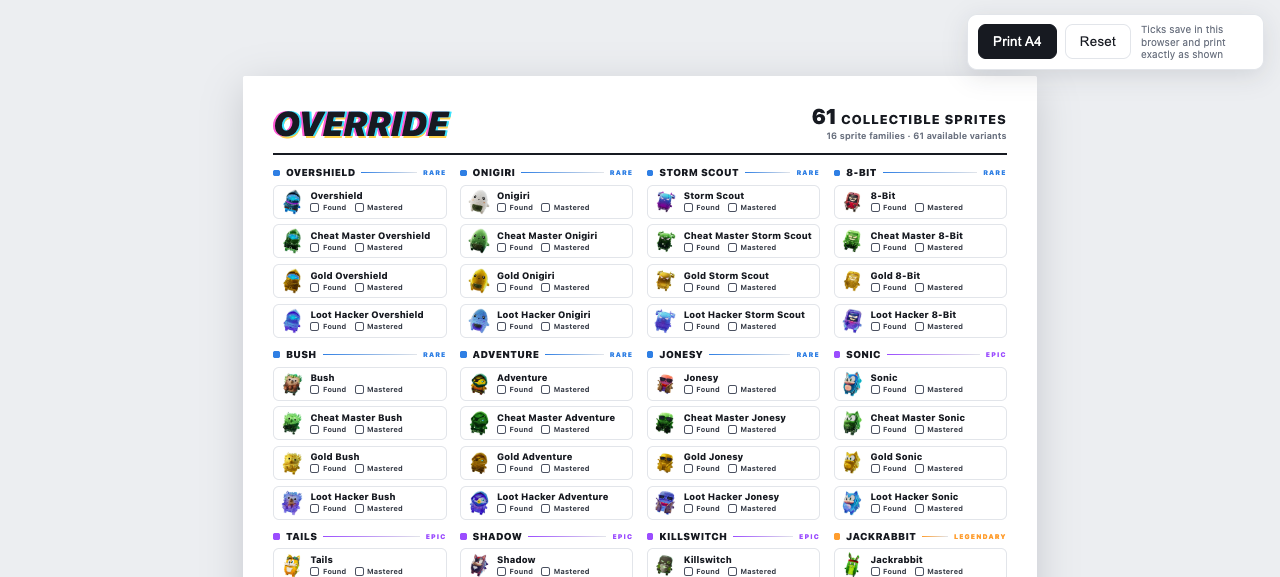
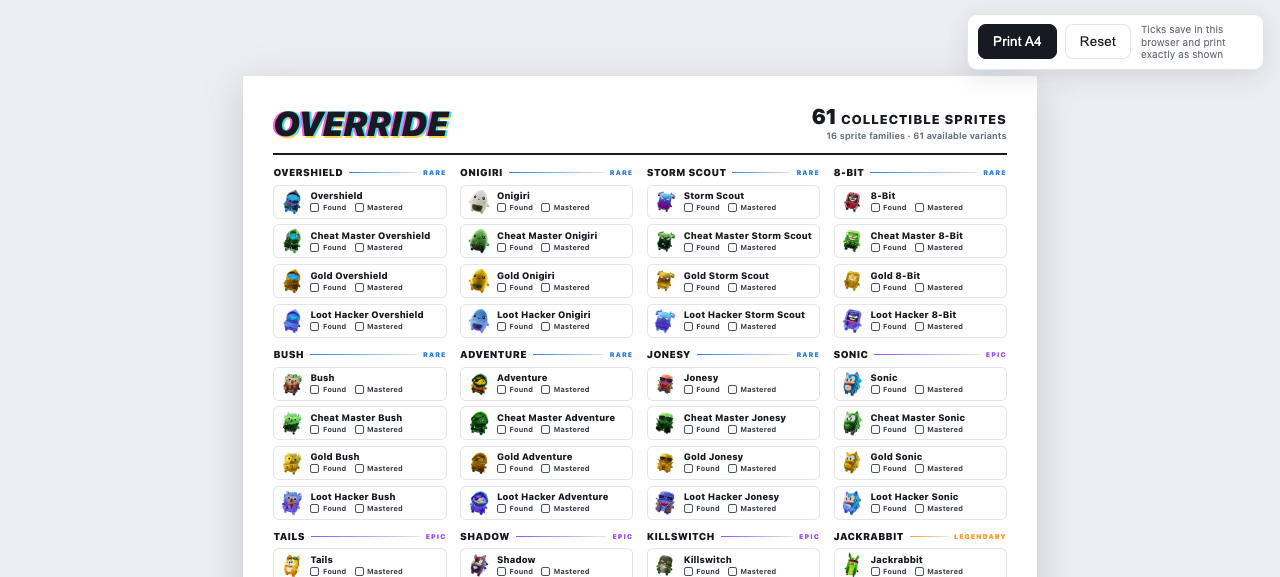
Tighten the sheet: badges under names, no pips, unreleased pinned to the page bottom
Unreleased badges now sit directly under the sprite name and print as
hairline outlined chips (white fill, coloured outline and text) instead of
solid blocks, so they cost almost no ink. The family header pip is gone,
leaving the name, the fading rule and the rarity label. The 'Not yet
obtainable' legend is removed.

Print keeps a full page height (296mm) so the grid stretches and the
Unreleased section lands at the bottom of the page exactly as previewed,
with the footer flush to the content edge. Verified as a single page via
printToPDF.

diff --git a/src/styles.css b/src/styles.css
@@ -33,7 +33,6 @@
         align-content:start; align-items:start}
   .fam{break-inside:avoid}
   .famhead{display:flex; align-items:center; gap:6px; margin-bottom:1.7mm}
-  .famhead .pip{width:6.5px; height:6.5px; flex:0 0 6.5px; border-radius:2px; background:var(--rar)}
   .famhead h2{font-size:9.8px; font-weight:900; text-transform:uppercase; letter-spacing:.02em;
               white-space:nowrap; overflow:hidden; text-overflow:ellipsis}
   .famhead .rule{flex:1; height:1px; min-width:8px; border-radius:1px; background:var(--line);
@@ -70,17 +69,17 @@
         align-items:center; background:#fafbfc; min-width:0}
   .ucard img{width:22px; height:22px; object-fit:contain; flex:0 0 22px}
   .badge{display:inline-block; font-size:5.9px; font-weight:900; letter-spacing:.11em; text-transform:uppercase;
-         color:#fff; border-radius:3px; padding:1.4px 4.5px 1px; white-space:nowrap; flex:0 0 auto}
-  .badge.new{background:#7c3aed}
-  .badge.das{background:#0f9d58}
+         background:#fff; border:1px solid currentColor; border-radius:3px; padding:1.2px 4.5px 1px;
+         white-space:nowrap; flex:0 0 auto}
+  .badge.new{color:#6d28d9}
+  .badge.das{color:#0f7a44}
   .ucardtxt{flex:1; min-width:0}
-  .ubadge{display:flex; justify-content:flex-end; margin-top:1.8px}
+  .ubadge{display:flex; justify-content:flex-start; margin-top:1.8px}
   .ucard .q{width:22px; height:22px; flex:0 0 22px; border-radius:5px; background:#eef1f5; color:#8a93a1;
               display:grid; place-items:center; font-weight:900; font-size:12px}
   .ucard .n{font-size:8.8px; font-weight:800; line-height:1.2}
   .ucard .by{font-size:6.9px; color:var(--muted); font-weight:600; line-height:1.2;
              white-space:nowrap; overflow:hidden; text-overflow:ellipsis}
-  .unfoot{font-size:6.8px; color:var(--muted); font-weight:600; margin-top:1.6mm}
 
   /* footer */
   .foot{margin-top:3mm; border-top:1px solid var(--line); padding-top:1.8mm; display:flex;
@@ -90,10 +89,12 @@
   @page{size:A4 portrait; margin:0}
   @media print{
     html,body{background:#fff; margin:0; padding:0}
-    /* print the previewed sheet container only, at true A4 geometry */
     body > #root > :not(.sheet){display:none !important}
     .toolbar{display:none !important}
-    .sheet{width:210mm; min-height:0; margin:0; padding:8mm; box-shadow:none;
+    /* print the previewed sheet container only, at true A4 geometry.
+       the sheet keeps a full page height so the grid stretches and the
+       unreleased section sits at the bottom of the page, exactly as previewed */
+    .sheet{width:210mm; min-height:296mm; margin:0; padding:8mm; box-shadow:none;
            border-radius:0; zoom:1 !important}
     *{-webkit-print-color-adjust:exact; print-color-adjust:exact}
   }

diff --git a/src/App.tsx b/src/App.tsx
@@ -108,7 +108,6 @@ function Family({ family, ticks, onToggle }: FamilyProps): ReactNode {
   return (
     <div className="fam" style={{ '--rar': RARITY_COLOURS[family.rarity] } as CSSProperties}>
       <div className="famhead">
-        <i className="pip" />
         <h2>{family.name}</h2>
         <i className="rule" />
         <span className="rar">{family.rarity.toUpperCase()}</span>
@@ -240,9 +239,6 @@ export default function App(): ReactNode {
             {UNRELEASED.map((sprite) => (
               <UnreleasedCard key={sprite.name} sprite={sprite} />
             ))}
-          </div>
-          <div className="unfoot">
-            Not yet obtainable. Purple: new in v42.20 · Green: Design-A-Sprite Contest winner.
           </div>
         </section>
 
